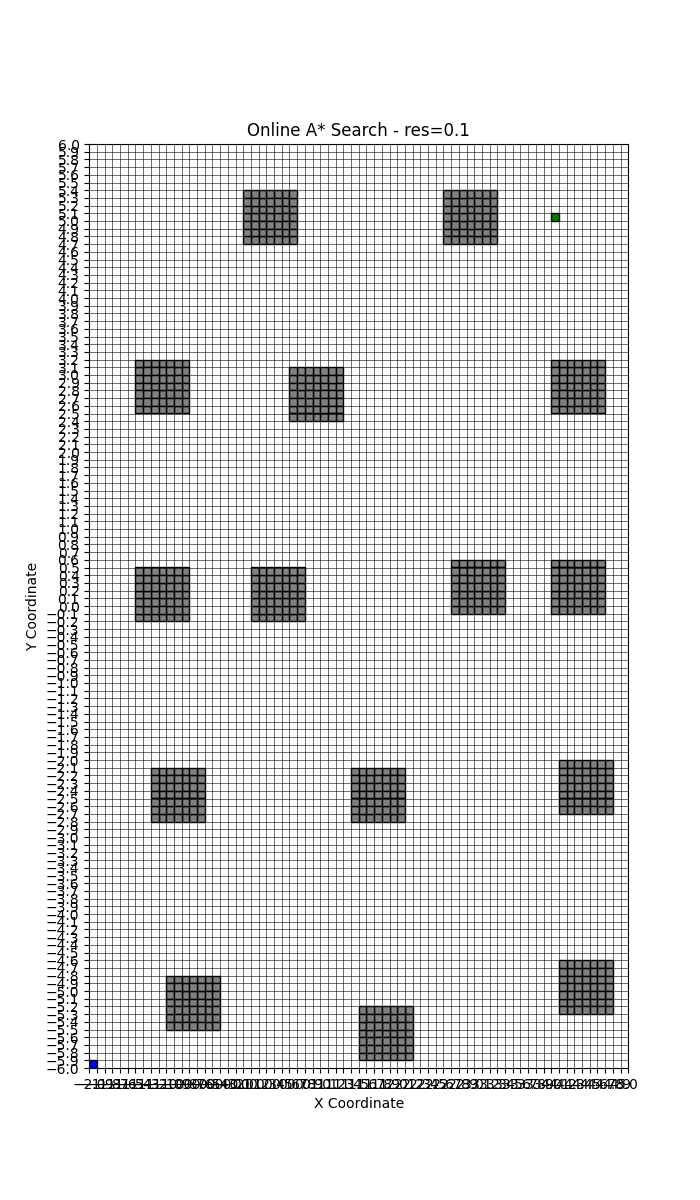
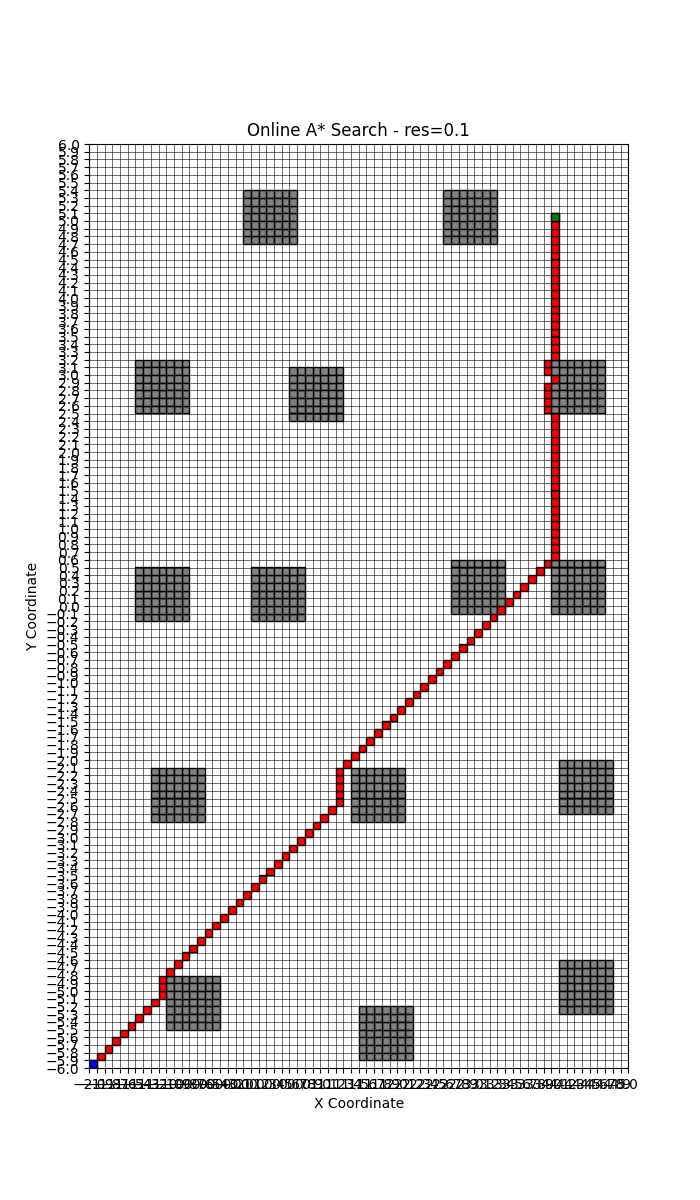
Finished internal integer representation, some error when converting back to units

diff --git a/search.py b/search.py
@@ -9,6 +9,12 @@ Date: 10/11/2025
 import numpy as np
 import heapq
 
+def pos_to_grid(pos, res):
+    return tuple(np.floor(np.array(pos) / res).astype(int))
+
+def grid_to_pos(grid, res):
+    return np.array(grid) * res
+
 def round_to_res(n, res):
     """
     Given a number or np.ndarray of numbers, round to a given resolution.
@@ -45,28 +51,14 @@ class Node():
 
     def get_neighbor_coords(self, bounds, res):
         neighbors = []
-        # neighbors.append(self.position + np.array([0.0, res]))    # Top
-        # neighbors.append(self.position + np.array([res, res]))    # Top right
-        # neighbors.append(self.position + np.array([res, 0.0]))    # Right
-        # neighbors.append(self.position + np.array([res, -res]))   # Bottom right
-        # neighbors.append(self.position + np.array([0.0, -res]))   # Bottom
-        # neighbors.append(self.position + np.array([-res, -res]))  # Bottom left
-        # neighbors.append(self.position + np.array([-res, 0.0]))   # Left
-        # neighbors.append(self.position + np.array([-res, res]))   # Top left
-        
-        # # Check bounds
-        # neighbors_filtered = []
-        # for n in neighbors:
-        #     if n[0] >= bounds[0][0] and n[0] < bounds[0][1] and \
-        #        n[1] >= bounds[1][0] and n[1] < bounds[1][1]:
-        #         neighbors_filtered.append(round_to_res(n, res))
 
         # Cover full immediate neighborhood
         for dx in range(-1, 2):
             for dy in range(-1, 2):
-                x, y = (self.position[0] + dx * res), (self.position[1] + dy * res)
+                x, y = (self.position[0] + dx), (self.position[1] + dy)
 
-                neigh = self.round_neighbor_to_res(np.array([x,y]), res)
+                # neigh = self.round_neighbor_to_res(np.array([x,y]), res)
+                neigh = (x,y)
                 
                 # Skip node coords
                 if tuple(neigh) == tuple(self.position):
@@ -74,7 +66,7 @@ class Node():
 
                 # Check bounds
                 if bounds[0][0] <= neigh[0] < bounds[0][1] and bounds[1][0] <= neigh [1] < bounds[1][1]:
-                    neighbors.append(tuple(neigh))
+                    neighbors.append(neigh)
 
         return neighbors
 
@@ -94,22 +86,30 @@ class Node():
         return f"Node(position={self.position} fcost={self.fcost} gcost={self.gcost} hcost={self.hcost})"
 
 
-def a_star(start, goal, bounds, res, obstacles):
+def a_star(start_f, goal_f, bounds_f, res, obstacles_f, return_float=True):
     """
     Use A* path finding to determine the best path from a start to a goal.
 
     Args:
-        start: Starting position of robot
-        goal: Goal position
-        bounds: Gridworld bounds
-        obstacles: Set of obstacle locations, rounded to Gridworld resolution
+        start_f: Starting position of robot
+        goal_f: Goal position
+        bounds_f: Gridworld bounds
+        res: Grid resolution
+        obstacles_f: Set of obstacle locations, rounded to Gridworld resolution
+        return_float: Whether to return path in internal int representation or final
+                      true units.
     """
-    # Round to given resolution
-    start, goal = round_to_res(start, res), round_to_res(goal, res)
+    # Convert real coords into integer representations
+    start, goal = pos_to_grid(start_f, res), pos_to_grid(goal_f, res)
+    obstacles = set(pos_to_grid(o, res) for o in obstacles_f)
+    bounds = np.array([
+        pos_to_grid(bounds_f[0], res),
+        pos_to_grid(bounds_f[1], res)
+    ])
 
     # Heuristic cost is Euclidean distance
     def h(node):
-        return np.linalg.norm(goal - node)
+        return np.linalg.norm(np.array(goal) - np.array(node))
     
     # Initialization
     open_heap = []           # To be evaluated, heapq
@@ -122,9 +122,9 @@ def a_star(start, goal, bounds, res, obstacles):
     # Add starting node to open set
     start_node = Node(start, parent=None, obs=False)
     start_node.set_cost(0, h(start))
-    node_lookup[tuple(start)] = start_node
+    node_lookup[start] = start_node
     heapq.heappush(open_heap, start_node)
-    open_set.add(tuple(start))
+    open_set.add(start)
 
     found = False
     current = start
@@ -133,7 +133,9 @@ def a_star(start, goal, bounds, res, obstacles):
         test_iter += 1  # DEBUG
         # Get node in open set with lowest f cost
         current = heapq.heappop(open_heap)
-        curr_pos = tuple(round_to_res(current.position, res))
+        # curr_pos = tuple(round_to_res(current.position, res))
+        curr_pos = current.position
+        if curr_pos in closed: continue
         open_set.remove(curr_pos)
         closed.add(curr_pos)
 
@@ -145,39 +147,40 @@ def a_star(start, goal, bounds, res, obstacles):
         # Iterate over neighbors of current
         neighbors = current.get_neighbor_coords(bounds, res)
         for neigh in neighbors:
-            neigh = round_to_res(neigh, res)
-            if tuple(neigh) in closed: continue
+            # neigh = round_to_res(neigh, res)
+            if neigh in closed: continue
             
             # Calculate gcost, hcost, and fcost based on current
-            obs = tuple(neigh) in obstacles
+            obs = neigh in obstacles
             if obs: neigh_gcost = current.gcost + obs_cost
             else: neigh_gcost = current.gcost + move_cost
             neigh_hcost = h(neigh)
 
             # If neighbor in set AND new f cost of neighbor is lower OR neighbor not in set
-            if tuple(neigh) not in node_lookup: neigh_node = Node(neigh, parent=current, obs=obs)
-            else: neigh_node = node_lookup[tuple(neigh)]
-            if (tuple(neigh) in open_set and neigh_gcost < node_lookup[tuple(neigh)].gcost) or\
-                tuple(neigh) not in open_set:
+            if neigh not in node_lookup: neigh_node = Node(neigh, parent=current, obs=obs)
+            else: neigh_node = node_lookup[neigh]
+            if (neigh in open_set and neigh_gcost < node_lookup[neigh].gcost) or\
+                neigh not in open_set:
                 # Update node lookup and add (or re-add) neighbor to open set
                 neigh_node.parent = current
                 neigh_node.set_cost(neigh_gcost, neigh_hcost)
                 heapq.heappush(open_heap, neigh_node)
-                open_set.add(tuple(neigh))
-                node_lookup[tuple(neigh)] = neigh_node
+                open_set.add(neigh)
+                node_lookup[neigh] = neigh_node
 
     path = []
     if found:
-        current = node_lookup[tuple(goal)]
+        current = node_lookup[goal]
         while current is not None:
             path.append(tuple(current.position))
             current = current.parent
 
         path.reverse()
 
+    if return_float: path = [grid_to_pos(p, res) for p in path]
     return path
 
-def a_star_online(start, goal, bounds, res, obstacles):
+def a_star_online(start_f, goal_f, bounds_f, res, obstacles_f):
     """
     Use A* path finding to determine the best path from a start to a goal, planning
     online to avoid obstacles.
@@ -189,7 +192,13 @@ def a_star_online(start, goal, bounds, res, obstacles):
         obstacles: np.ndarray of obstacle locations, rounded to Gridworld resolution
     """
     # Initialization
-    start, goal = round_to_res(start, res), round_to_res(goal, res)
+    start, goal = pos_to_grid(start_f, res), pos_to_grid(goal_f, res)
+    start, goal = pos_to_grid(start_f, res), pos_to_grid(goal_f, res)
+    obstacles = set(pos_to_grid(o, res) for o in obstacles_f)
+    bounds = np.array([
+        pos_to_grid(bounds_f[0], res),
+        pos_to_grid(bounds_f[1], res)
+    ])
     path = [tuple(start)]
     known_obstacles = set() # Start without known obstacles
 
@@ -197,8 +206,8 @@ def a_star_online(start, goal, bounds, res, obstacles):
 
     # Continue until goal is reached
     current = start
-    while not (current == goal).all():
-        naive_path = a_star(current, goal, bounds, res, known_obstacles)
+    while not current == goal:
+        naive_path = a_star(current, goal, bounds, res, known_obstacles, return_float=False)
         if not naive_path: break  # No path found
 
         # Follow naive path

diff --git a/run.py b/run.py
@@ -11,11 +11,11 @@ from questions import q1, q2, q3, q4, q5, q6
 def main():
     print("*** STARTING ***\n")
 
-    # q1()
-    # q2()
-    # q3()
-    # q4()
-    # q5()
+    q1()
+    q2()
+    q3()
+    q4()
+    q5()
     q6()
     
     print("\n*** DONE ***")
